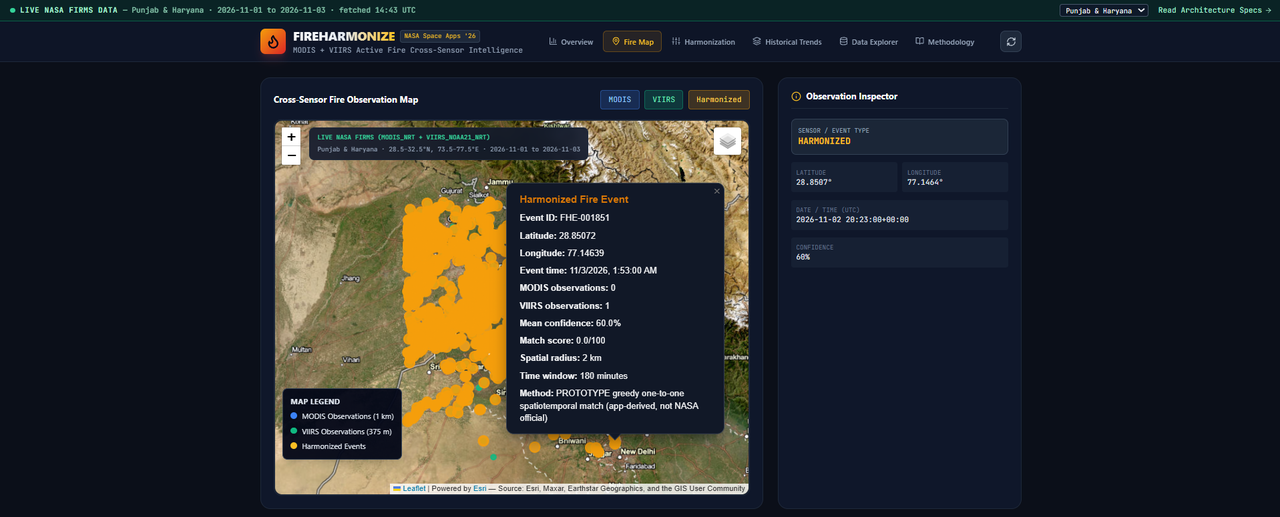
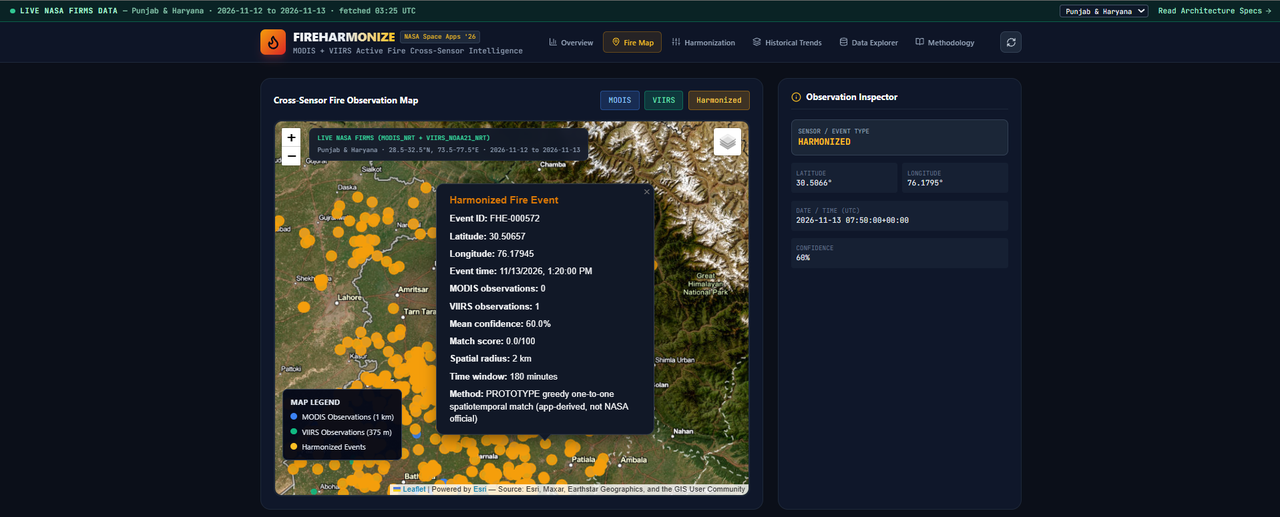
Update README screenshots with 12-13 Nov live data

diff --git a/README.md b/README.md
@@ -33,17 +33,17 @@ The platform aims to improve the interpretation of satellite-based fire observat
 
 ## 📸 Screenshots
 
-All screenshots show **live NASA FIRMS data** for Punjab & Haryana, 1–3 November 2026 (MODIS_NRT + VIIRS_NOAA21_NRT), captured from the deployed dashboard.
+The desktop screenshots show **live NASA FIRMS data** for Punjab & Haryana, 12–13 November 2026 (MODIS_NRT + VIIRS_NOAA21_NRT), captured from the deployed dashboard on 14 November 2026.
 
-**Overview:** 989 MODIS and 1,264 VIIRS detections, 69 matched pairs, and a note explaining the low match rate with the satellites' measured overpass times (MODIS Aqua ~2 h 38 min after VIIRS NOAA-21).
+**Overview:** 323 MODIS and 399 VIIRS detections, 11 matched pairs, and a note explaining the low match rate with the satellites' measured overpass times (MODIS Aqua ~10:21 UTC, VIIRS NOAA-21 ~08:09 UTC, 2 h 12 min apart).
 
 ![FireHarmonize overview dashboard with live Punjab & Haryana data](docs/screenshots/overview.png)
 
-**Fire Map:** MODIS, VIIRS and harmonized events on Esri satellite imagery, with a harmonized event open in the Observation Inspector.
+**Fire Map:** MODIS, VIIRS and harmonized events on Esri satellite imagery, with an event open in the Observation Inspector.
 
-![Fire map of Punjab and Haryana with a harmonized event selected](docs/screenshots/fire-map.png)
+![Fire map of Punjab and Haryana with an event selected](docs/screenshots/fire-map.png)
 
-**Harmonization:** live-mode matching (2 km, 180 min), adjustable with the sliders, and the resulting events ranked by match score.
+**Harmonization:** live-mode matching (2 km, 180 min), adjustable with the sliders. 722 raw detections (33 flagged as low-confidence or repeats) became 678 harmonized events, ranked by match score.
 
 ![Harmonization engine controls and output](docs/screenshots/harmonization.png)
 
@@ -51,11 +51,15 @@ All screenshots show **live NASA FIRMS data** for Punjab & Haryana, 1–3 Novemb
 
 ![Daily MODIS, VIIRS and harmonized counts](docs/screenshots/trends.png)
 
-**Data Explorer:** all 4,304 observations and events with their harmonization status (the first 500 are shown; search or filter to narrow).
+**Data Explorer:** all 1,400 records (722 detections and 678 harmonized events) with their harmonization status; the first 500 are shown, and search or filter narrows the list.
 
 ![Data Explorer with colour-coded statuses](docs/screenshots/data-explorer.png)
 
-**Mobile:** the full dashboard works on phones, with the region picker in the top banner and a swipeable tab bar.
+**Methodology:** the sensor differences, the match-score formula and the scientific disclaimer, inside the dashboard.
+
+![Methodology tab](docs/screenshots/methodology.png)
+
+**Mobile:** the full dashboard works on phones, with the region picker in the top banner and a swipeable tab bar (captured 3 November 2026).
 
 <img src="docs/screenshots/mobile.png" alt="FireHarmonize on a phone" width="300">
 
